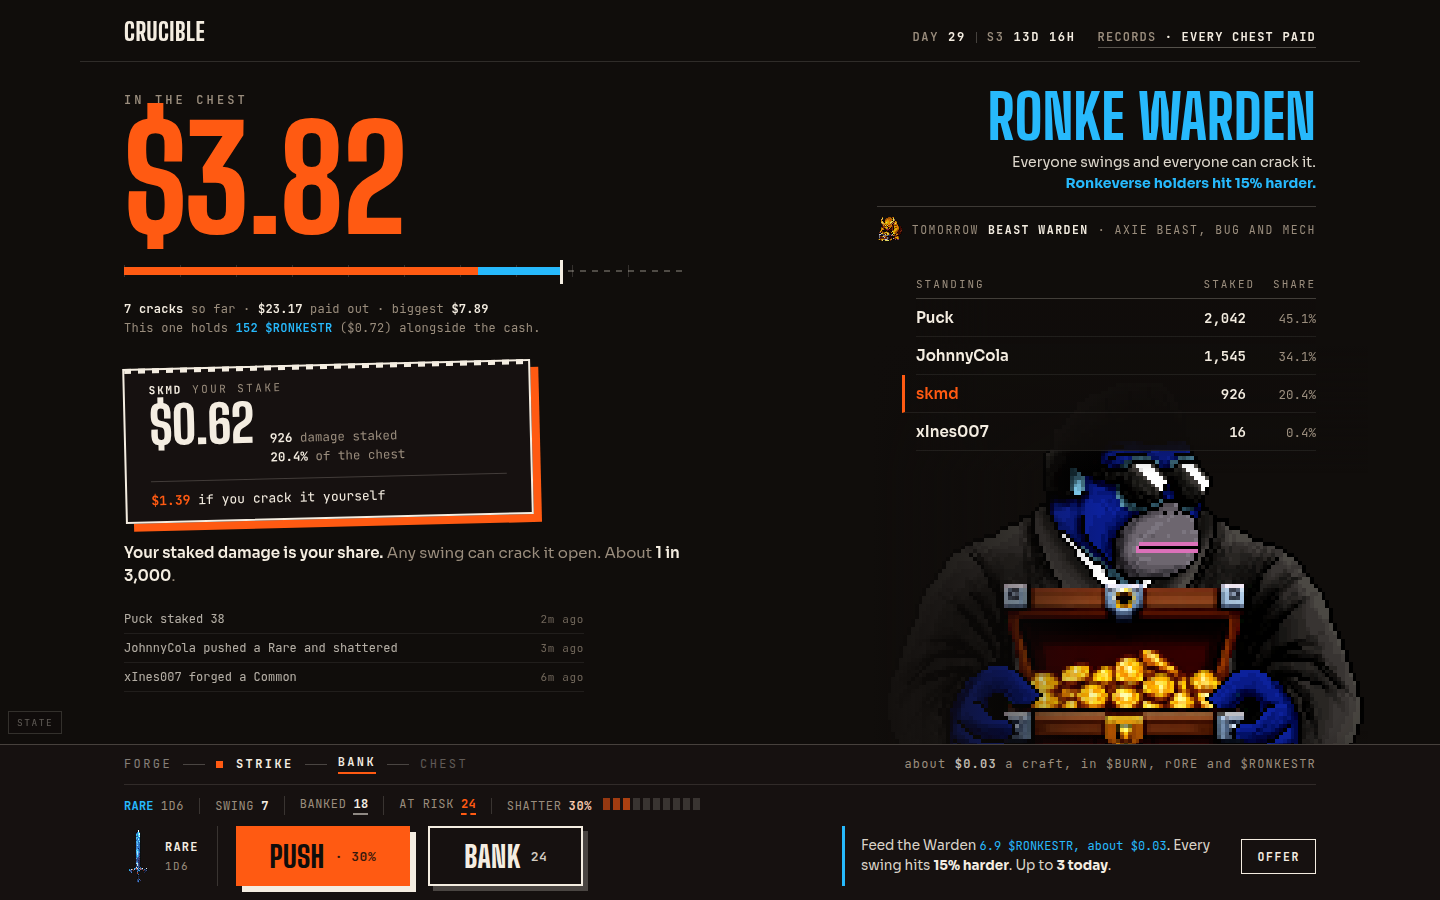
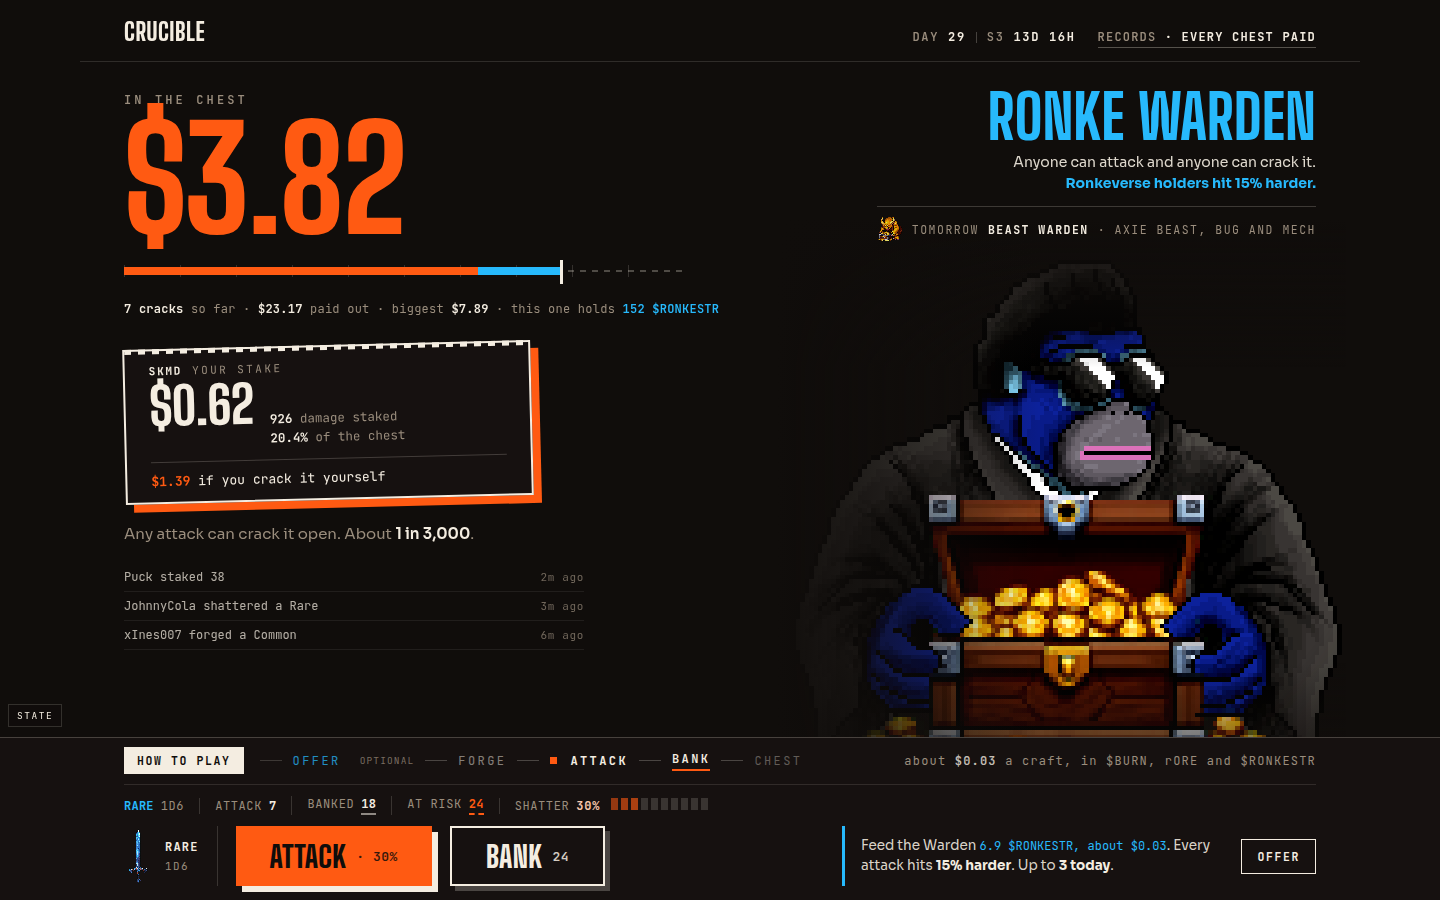
arena: D rev2 from operator review

diff --git a/mockups/arena/arena-d-synthesis.html b/mockups/arena/arena-d-synthesis.html
@@ -164,12 +164,14 @@ button{font:inherit;color:inherit;background:none;border:0;cursor:pointer}
 .right{position:relative;z-index:2;padding-top:30px;min-height:520px}
 /* the boss sits BELOW the roster, not behind it: B's win was a Warden with a
    visible face, and a roster laid over its head throws that away twice over */
+/* with the roster gone the boss gets the column to itself, which is the whole
+   reason it was worth importing from B */
 .warden{
-  position:absolute;z-index:0;left:auto;right:-52px;top:282px;bottom:auto;
-  width:496px;height:496px;overflow:hidden;pointer-events:none;
+  position:absolute;z-index:0;left:auto;right:-30px;top:158px;bottom:auto;
+  width:568px;height:568px;overflow:hidden;pointer-events:none;
 }
 .warden img{
-  width:496px;height:496px;
+  width:568px;height:568px;
   /* the sprite carries its own near-black plate, which reads as a visible
      rectangle now that the boss is bright enough to be a presence. Crush the
      plate toward the page ink with contrast, then mask the corners out, rather
@@ -217,23 +219,11 @@ button{font:inherit;color:inherit;background:none;border:0;cursor:pointer}
 .tomorrow b{color:var(--bone);font-weight:700}
 .tomorrow img{width:26px;height:26px;opacity:.9}
 
-/* roster: B's block, the most readable object anyone found in the set */
-.roster{position:relative;z-index:3;margin-top:30px;margin-left:auto;max-width:400px}
-.roster .rhead{
-  display:grid;grid-template-columns:1fr auto auto;gap:18px;
-  font-family:var(--mono);font-size:11px;letter-spacing:.18em;text-transform:uppercase;
-  color:var(--muted);padding-bottom:7px;border-bottom:1px solid rgba(244,237,225,.22);
-}
-.roster .r{
-  display:grid;grid-template-columns:1fr auto auto;gap:18px;align-items:baseline;
-  padding:9px 0;border-bottom:1px solid rgba(244,237,225,.08);
-  background:linear-gradient(90deg,transparent,rgba(16,13,11,.86) 18%);
-}
-.roster .r .n{font-size:15px;font-weight:600}
-.roster .r .v{font-family:var(--mono);font-size:14px;font-weight:600;min-width:62px;text-align:right}
-.roster .r .p{font-family:var(--mono);font-size:12.5px;color:var(--muted);min-width:52px;text-align:right}
-.roster .r.you{border-left:3px solid var(--ember);padding-left:11px;margin-left:-14px}
-.roster .r.you .n{color:var(--ember)}
+/* The roster that lived here has gone to Records. It was imported from
+   direction B, it was never one of the five things the arena keeps, and laid
+   above the sprite it covered the Warden's face, which threw away the exact
+   thing B was contributing. The standings are reference material; the boss is
+   not. */
 
 /* damage popups + impact */
 .pop{
@@ -283,6 +273,10 @@ button{font:inherit;color:inherit;background:none;border:0;cursor:pointer}
 }
 .line .st.ready{color:var(--bone);font-weight:600}
 .line .st.ready s{text-decoration:none;border-bottom:2px solid var(--ember);padding-bottom:2px}
+/* the offering leads the sequence because it only buffs attacks that come
+   after it, but it is optional and must not read as a gate */
+.line .st.opt{color:var(--warden);opacity:.75}
+.line .st.opt::after{content:"optional";margin-left:8px;font-size:9.5px;letter-spacing:.12em;color:var(--muted)}
 /* the craft price has to survive into the armed state: that is where the
    repeat spending happens and every direction dropped it there */
 .line .price{margin-left:auto;color:var(--muted);letter-spacing:.1em;text-transform:none;font-size:12px}
@@ -351,6 +345,45 @@ button{font:inherit;color:inherit;background:none;border:0;cursor:pointer}
 body[data-state="forge"] .only-weapon{display:none}
 body[data-state="weapon"] .only-forge{display:none}
 
+/* ---------- how to play ---------- */
+.howto{
+  font-family:var(--mono);font-size:11.5px;font-weight:700;letter-spacing:.14em;
+  text-transform:uppercase;color:var(--ink);background:var(--bone);
+  padding:6px 13px;margin-right:16px;white-space:nowrap;flex:none;
+  transition:background .14s ease,transform .1s ease;
+}
+.howto:hover{background:#fff}
+.howto:active{transform:translateY(1px)}
+
+.sheet{position:fixed;inset:0;z-index:60;display:flex;align-items:center;justify-content:center;padding:24px}
+.sheet[hidden]{display:none}
+.sheet-scrim{position:absolute;inset:0;background:rgba(9,7,6,.86);animation:fade .18s ease-out}
+.sheet-panel{
+  position:relative;z-index:2;width:min(620px,100%);max-height:88dvh;overflow:auto;
+  background:var(--ink-2);border:2px solid var(--bone);box-shadow:12px 12px 0 var(--ember);
+  padding:26px 30px 28px;animation:rise .22s cubic-bezier(.16,1,.3,1);
+}
+@keyframes fade{from{opacity:0}to{opacity:1}}
+@keyframes rise{from{opacity:0;transform:translateY(14px)}to{opacity:1;transform:none}}
+.sheet-head{display:flex;align-items:baseline;justify-content:space-between;gap:20px;
+  border-bottom:3px solid var(--bone);padding-bottom:11px}
+.sheet-head h2{font-family:var(--disp);font-weight:800;font-size:44px;line-height:.84;text-transform:uppercase}
+.sheet-x{font-size:30px;line-height:1;color:var(--muted);padding:0 4px}
+.sheet-x:hover{color:var(--bone)}
+.steps{list-style:none;counter-reset:s;margin-top:6px}
+.steps li{counter-increment:s;padding:16px 0 15px 46px;position:relative;border-bottom:1px solid rgba(244,237,225,.1)}
+.steps li::before{
+  content:counter(s);position:absolute;left:0;top:15px;
+  font-family:var(--disp);font-weight:800;font-size:30px;line-height:1;color:var(--ember);
+}
+.steps li b{font-size:17px;font-weight:700}
+.steps li p{margin-top:6px;font-size:14px;line-height:1.55;color:var(--muted)}
+.opttag{
+  font-family:var(--mono);font-size:10.5px;letter-spacing:.12em;text-transform:uppercase;
+  color:var(--warden);margin-left:9px;
+}
+.sheet-go{margin-top:22px;width:100%;font-size:26px;height:56px}
+
 .dev{
   position:fixed;left:8px;bottom:calc(var(--rail-h) + 10px);z-index:40;
   font-family:var(--mono);font-size:9.5px;letter-spacing:.16em;text-transform:uppercase;
@@ -375,10 +408,8 @@ body[data-state="weapon"] .only-forge{display:none}
   .ticker li{padding:4px 0}
   .right{padding-top:16px;min-height:0}
   .wardenhead h2{font-size:42px}
-  .roster{margin-top:20px}
-  .roster .r{padding:7px 0}
-  .warden{top:250px}
-  .warden img{width:470px;height:470px}
+  .warden{top:132px;width:452px;height:452px}
+  .warden img{width:452px;height:452px}
 }
 
 /* ---------- mobile ---------- */
@@ -398,17 +429,24 @@ body[data-state="weapon"] .only-forge{display:none}
   .right{display:contents}
   .wardenhead{order:-2;text-align:left;padding-top:14px;position:relative;z-index:3}
   .col{order:-1}
-  .tomorrow{order:1;margin-left:0;margin-top:24px;font-size:11px;padding-top:9px}
-  .roster{order:2}
+  .tomorrow{order:1;margin-left:0;margin-top:22px;font-size:11px;padding-top:9px}
   .wardenhead h2{font-size:30px;max-width:62%}
   .wardenhead p{font-size:12.5px;max-width:64%;margin-left:0;margin-top:8px}
   .tomorrow img{width:22px;height:22px}
-  .warden{left:auto;right:-46px;top:52px;bottom:auto;width:212px;height:212px}
-  .warden img{width:212px;height:212px}
-  .roster{margin-top:18px;max-width:none}
-  .roster .r{background:none}
-  .roster .r .n{font-size:14px}
+  .warden{left:auto;right:-46px;top:52px;bottom:auto;width:222px;height:222px}
+  .warden img{width:222px;height:222px}
   .line .tokens{display:none}
+  .howto{margin-right:10px;font-size:11px;padding:6px 11px}
+  .sheet{padding:10px}
+  .sheet-panel{padding:16px 15px 18px;max-height:94dvh;box-shadow:8px 8px 0 var(--ember)}
+  .sheet-head{padding-bottom:8px}
+  .sheet-head h2{font-size:30px}
+  .steps li{padding:11px 0 10px 32px}
+  .steps li::before{font-size:22px;top:10px}
+  .steps li b{font-size:15px}
+  .steps li p{font-size:12.5px;line-height:1.5;margin-top:4px}
+  .opttag{display:block;margin-left:0;margin-top:3px}
+  .sheet-go{font-size:21px;height:46px;margin-top:14px}
 
   .kicker{margin-top:22px;font-size:11px;letter-spacing:.22em}
   .pot{font-size:88px;margin-top:8px}
@@ -461,6 +499,45 @@ body[data-state="weapon"] .only-forge{display:none}
 
 <button class="dev" id="dev" aria-label="Toggle mock state">state</button>
 
+<!-- How to play. Numbers are used here, and only here: this genuinely is a
+     sequence and the whole point of the panel is the order. -->
+<div class="sheet" id="sheet" hidden>
+  <div class="sheet-scrim" data-close></div>
+  <div class="sheet-panel" role="dialog" aria-modal="true" aria-labelledby="sheet-title">
+    <div class="sheet-head">
+      <h2 id="sheet-title">How to play</h2>
+      <button class="sheet-x" data-close aria-label="Close">&times;</button>
+    </div>
+    <ol class="steps">
+      <li>
+        <b>Feed the Warden</b> <span class="opttag">optional, do it first</span>
+        <p>Send $RONKESTR before you attack. Every attack after it hits 15% harder,
+          up to three offerings a day. It does nothing to attacks you have already made.</p>
+      </li>
+      <li>
+        <b>Forge a weapon</b>
+        <p>About $0.03, paid in $BURN, rORE and $RONKESTR. Rarer weapons roll bigger dice,
+          so they hit harder.</p>
+      </li>
+      <li>
+        <b>Attack the Warden</b>
+        <p>Your first five attacks are always safe. Each one adds damage to the weapon.</p>
+      </li>
+      <li>
+        <b>Bank it, or keep attacking</b>
+        <p>After the fifth, every attack can shatter the weapon and cost you all the damage
+          it is holding. Banking makes that damage permanent and ends the run.</p>
+      </li>
+      <li>
+        <b>Banked damage is your share</b>
+        <p>When anyone cracks the chest it splits by banked damage. Crack it yourself and
+          take 20% off the top first. Any attack can be the one, about 1 in 3,000.</p>
+      </li>
+    </ol>
+    <button class="btn btn-primary sheet-go" data-close>Got it</button>
+  </div>
+</div>
+
 <div id="shake">
   <header class="topbar wrap">
     <span class="mark">Crucible</span>
@@ -482,8 +559,8 @@ body[data-state="weapon"] .only-forge{display:none}
       </div>
 
       <p class="record">
-        <b>7 cracks</b> so far &middot; <b>$23.17</b> paid out &middot; biggest <b>$7.89</b><br>
-        This one holds <span class="rk">152 $RONKESTR</span> ($0.72) alongside the cash.
+        <b>7 cracks</b> so far &middot; <b>$23.17</b> paid out &middot; biggest <b>$7.89</b>
+        &middot; this one holds <span class="rk">152 $RONKESTR</span>
       </p>
 
       <div class="stampwrap">
@@ -500,11 +577,11 @@ body[data-state="weapon"] .only-forge{display:none}
         </div>
       </div>
 
-      <p class="odds"><strong>Your staked damage is your share.</strong> Any swing can crack it open. About <b>1&nbsp;in&nbsp;3,000</b>.</p>
+      <p class="odds">Any attack can crack it open. About <b>1&nbsp;in&nbsp;3,000</b>.</p>
 
       <ul class="ticker">
         <li><span>Puck staked 38</span><time>2m ago</time></li>
-        <li><span>JohnnyCola pushed a Rare and shattered</span><time>3m ago</time></li>
+        <li><span>JohnnyCola shattered a Rare</span><time>3m ago</time></li>
         <li><span>xInes007 forged a Common</span><time>6m ago</time></li>
       </ul>
     </div>
@@ -516,21 +593,13 @@ body[data-state="weapon"] .only-forge{display:none}
 
       <div class="wardenhead">
         <h2>Ronke Warden</h2>
-        <p>Everyone swings and everyone can crack it. <b>Ronkeverse holders hit 15% harder.</b></p>
+        <p>Anyone can attack and anyone can crack it. <b>Ronkeverse holders hit 15% harder.</b></p>
       </div>
 
       <span class="tomorrow">
         <img src="assets/wardens/beast.png" alt="">
         Tomorrow <b>Beast Warden</b> &middot; Axie beast, bug and mech
       </span>
-
-      <div class="roster">
-        <div class="rhead"><span>Standing</span><span>Staked</span><span>Share</span></div>
-        <div class="r"><span class="n">Puck</span><span class="v">2,042</span><span class="p">45.1%</span></div>
-        <div class="r"><span class="n">JohnnyCola</span><span class="v">1,545</span><span class="p">34.1%</span></div>
-        <div class="r you"><span class="n">skmd</span><span class="v" id="rosterYou">926</span><span class="p" id="rosterYouPct">20.4%</span></div>
-        <div class="r"><span class="n">xInes007</span><span class="v">16</span><span class="p">0.4%</span></div>
-      </div>
     </div>
 
   </main>
@@ -540,8 +609,10 @@ body[data-state="weapon"] .only-forge{display:none}
   <div class="wrap">
 
     <div class="line" id="line">
+      <button class="howto" id="howto">How to play</button>
+      <span class="st opt" id="stOffer">Offer</span>
       <span class="st" id="stForge">Forge</span>
-      <span class="st" id="stStrike">Strike</span>
+      <span class="st" id="stStrike">Attack</span>
       <span class="st" id="stBank">Bank</span>
       <span class="st" id="stChest">Chest</span>
       <span class="price">about <b>$0.03</b> a craft<span class="tokens">, in $BURN, rORE and $RONKESTR</span></span>
@@ -549,7 +620,7 @@ body[data-state="weapon"] .only-forge{display:none}
 
     <div class="status only-weapon">
       <span class="s tier"><b>Rare</b> 1d6</span>
-      <span class="s">swing <b id="swingNo">7</b></span>
+      <span class="s">attack <b id="swingNo">7</b></span>
       <span class="s safe">banked <b id="runBanked">18</b></span>
       <span class="s risked">at risk <b id="runRisk">24</b></span>
       <span class="s">shatter <b class="shatterval" id="shatterPct">30%</b><span class="meter" id="meter"></span></span>
@@ -570,13 +641,13 @@ body[data-state="weapon"] .only-forge{display:none}
         <dl class="only-forge"><dt>No weapon</dt><dd>2 crafts paid</dd></dl>
       </div>
 
-      <button class="btn btn-primary only-weapon" id="push">Push <small id="pushPct">&middot; 30%</small></button>
+      <button class="btn btn-primary only-weapon" id="push">Attack <small id="pushPct">&middot; 30%</small></button>
       <button class="btn btn-ghost only-weapon" id="bank">Bank <small id="bankAmt">24</small></button>
 
       <button class="btn btn-primary only-forge" id="forge">Forge a weapon</button>
 
       <div class="offering">
-        <p>Feed the Warden <em>6.9&nbsp;$RONKESTR, about&nbsp;$0.03</em>. Every swing hits <b>15% harder</b>. Up to <b>3 today</b>.</p>
+        <p>Feed the Warden <em>6.9&nbsp;$RONKESTR, about&nbsp;$0.03</em>. Every attack hits <b>15% harder</b>. Up to <b>3 today</b>.</p>
         <button class="btn-offer">Offer</button>
       </div>
     </div>
@@ -605,9 +676,17 @@ body[data-state="weapon"] .only-forge{display:none}
     $('stBank').className   = 'st' + (!forging && st.risk > 0 ? ' ready' : '');
     $('stChest').className  = 'st';
     $('stForge').innerHTML  = forging ? '<em></em>Forge' : 'Forge';
-    $('stStrike').innerHTML = forging ? 'Strike' : '<em></em>Strike';
+    $('stStrike').innerHTML = forging ? 'Attack' : '<em></em>Attack';
     $('stBank').innerHTML   = (!forging && st.risk > 0) ? '<s>Bank</s>' : 'Bank';
   }
+
+  /* ---- how to play ---- */
+  var sheet = $('sheet');
+  function openSheet(){ sheet.hidden = false; sheet.querySelector('.sheet-x').focus(); }
+  function closeSheet(){ sheet.hidden = true; $('howto').focus(); }
+  $('howto').addEventListener('click', openSheet);
+  sheet.addEventListener('click', function(e){ if (e.target.closest('[data-close]')) closeSheet(); });
+  document.addEventListener('keydown', function(e){ if (e.key === 'Escape' && !sheet.hidden) closeSheet(); });
 
   function renderRisk(){
     var pct = Math.round(st.shatter*100);
@@ -633,8 +712,6 @@ body[data-state="weapon"] .only-forge{display:none}
     $('crackUsd').textContent = '$' + (POT * FINDER + base).toFixed(2);
     $('sharePct').textContent = (pct*100).toFixed(1) + '%';
     $('stakeTotal').textContent = st.staked.toLocaleString('en-US');
-    $('rosterYou').textContent = st.staked.toLocaleString('en-US');
-    $('rosterYouPct').textContent = (pct*100).toFixed(1) + '%';
     if (bump && !reduce){
       var el = $('shareUsd');
       el.classList.remove('bump'); void el.offsetWidth; el.classList.add('bump');

diff --git a/mockups/arena/PLAN.md b/mockups/arena/PLAN.md
@@ -285,3 +285,29 @@ radial mask rather than by dimming the boss back down.
 the paid offering (§7.2 item 4) is an economy question, and the post-crack explanation for
 the players who did not find it (item 9) belongs to the crack surface, not the arena.
 
+### D revision 2 (operator review, 2026-07-30)
+
+Four changes, all from the operator looking at the build.
+
+1. **The roster is gone, back to Records.** It was imported from B, it was never one of the
+   five things the arena keeps, and above the sprite it covered the Warden's face, which
+   threw away the one thing B was contributing. Cutting it fixes the face and the clutter
+   in a single move, and returns the screen to the agreed scope. The boss now has the
+   column to itself and is 568px rather than 496px.
+2. **A `How to play` pill in the rail, opening a numbered overlay.** The station line shows
+   *where you are*; it does not teach *what the order is* to someone who has never played.
+   The pill sits at the head of the line it explains. Five steps, and the sequence starts
+   with the offering because offerings are prospective: they only buff attacks that come
+   after them, so doing it first is the actual correct advice.
+   This is the one place numbers are used. The screen genuinely is a sequence here and the
+   whole point of the panel is the order, which is the exception the spec allows.
+3. **`Offer` joins the station line**, at the head, tagged optional so it reads as an
+   opening move rather than a gate. It also answers the "make offerings unmissable" brief
+   better than the panel did, because position on the line explains what it does.
+4. **`Push` is now `Attack`**, and the verb is standardised everywhere it appeared: the
+   button, the station, the run counter, the offering copy, the perk line and the ticker.
+   Escalation still reads, through the appended percentage, the meter and the risk colour.
+
+Screenshots: `shots/d-synthesis-{desktop,mobile}.png`, the forge state, and the overlay at
+both breakpoints.
+
